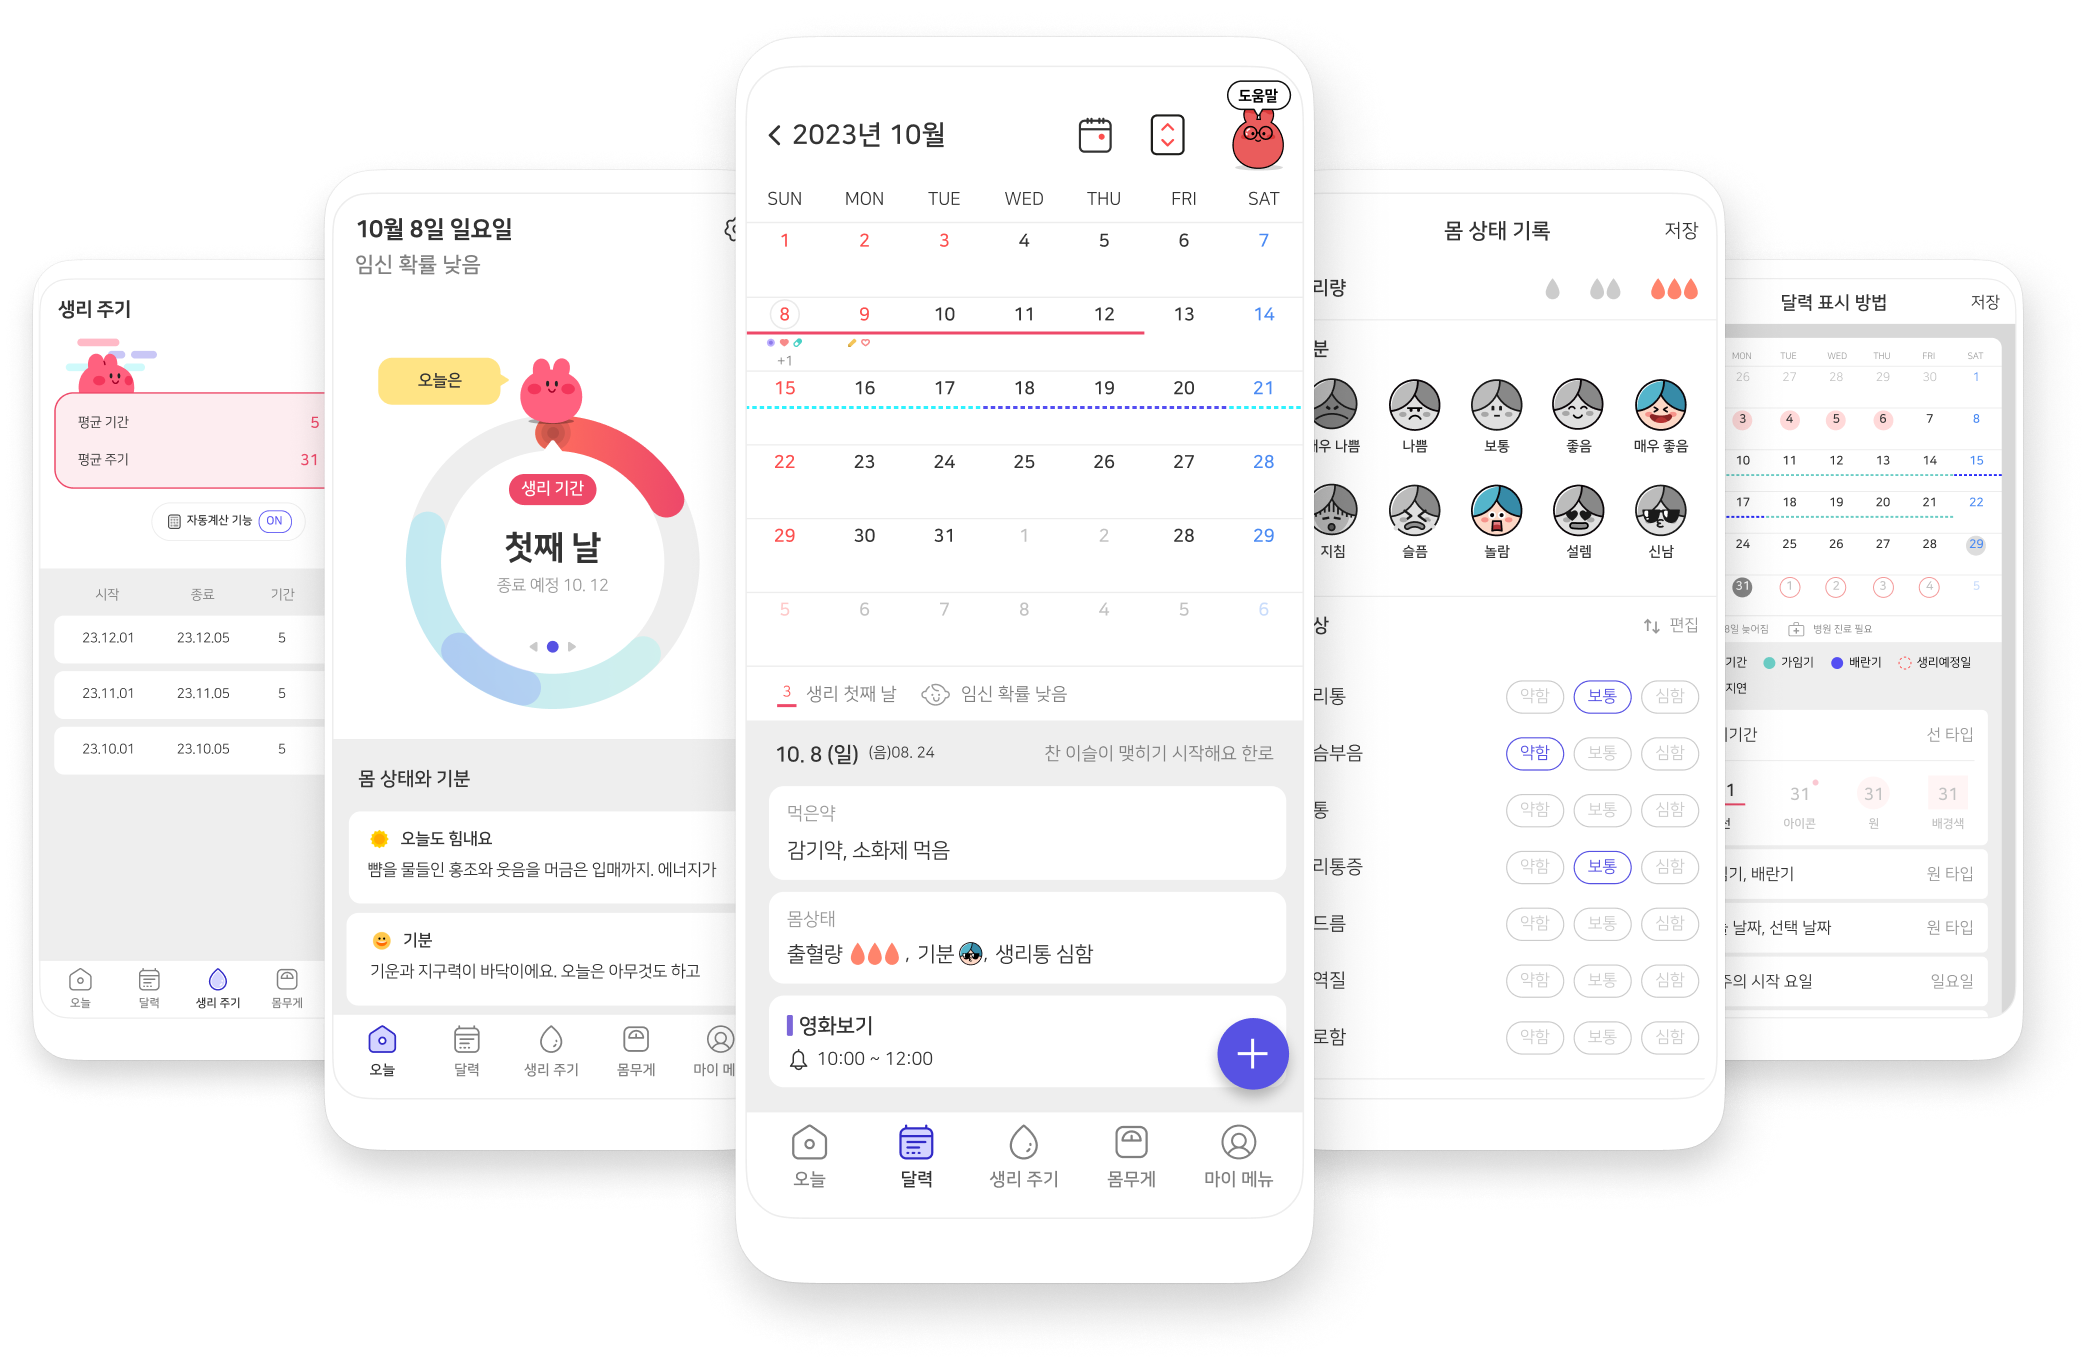
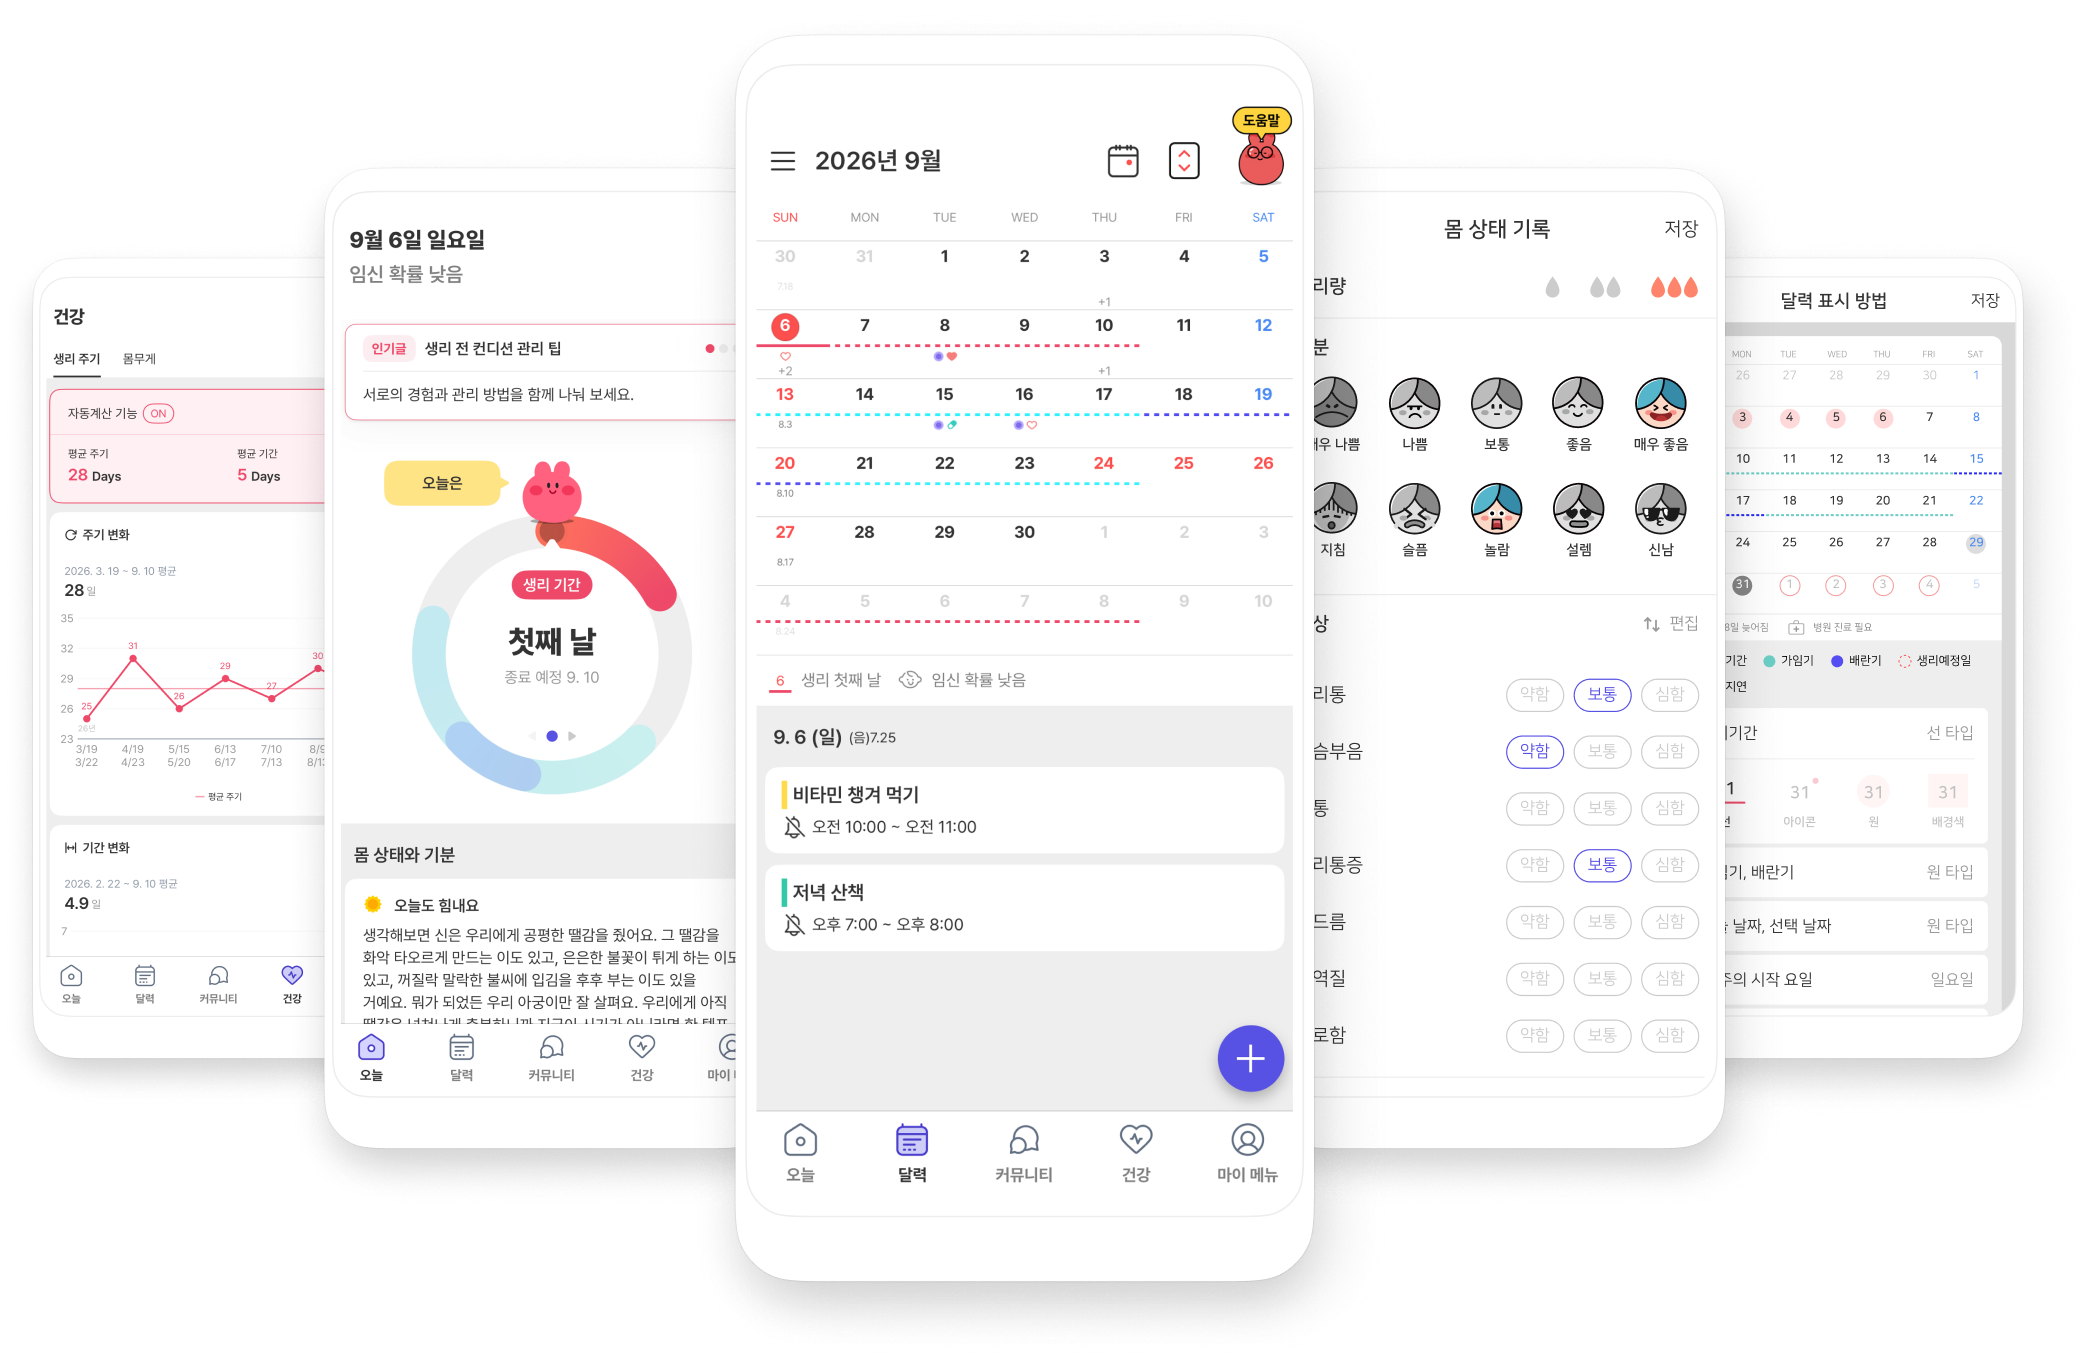
feat: refresh homepage app screenshots

diff --git a/index.html b/index.html
@@ -25,9 +25,9 @@
     <!-- magnific popup -->
     <link rel="stylesheet" href="assets/css/magnific-popup.css">
     <!-- stylesheet -->
-    <link rel="stylesheet" href="assets/css/style.css">
+    <link rel="stylesheet" href="assets/css/style.css?v=20260906-3">
     <!-- responsive -->
-    <link rel="stylesheet" href="assets/css/responsive.css">
+    <link rel="stylesheet" href="assets/css/responsive.css?v=20260906-3">
 
 </head>
 
@@ -108,7 +108,7 @@
 			  <div class="col-lg-12">
                 <div class="section-title">
                   <!-- section title -->
-                  <span><img src="assets/img/screen_phone.png" alt=""></span>
+                  <span><img src="assets/img/screen_phone.png?v=20260906-16" alt=""></span>
                 </div>
                 <!-- //. section title -->
               </div>	

diff --git a/assets/css/style.css b/assets/css/style.css
@@ -3457,8 +3457,9 @@ ul {
 	line-height: 36px;
 	margin-top: 8px;
 }
-.download-area{background-image: url(../img/download.png);
-	background-repeat: no-repeat; background-position: top center;background-position-y: 60px;}
+.download-area{background-image: url(../img/download.png?v=20260906-10);
+	background-repeat: no-repeat; background-position: top center; background-position-y: 60px;
+	background-size: 1140px 547px;}
 .footer-area .social-icon i{ color:#000;}
 .footer-area .social-icon {float:right; line-height: 29px;}
 .footer-area .social-icon li { float:left; margin-left: 8px;}

diff --git a/assets/css/responsive.css b/assets/css/responsive.css
@@ -231,7 +231,7 @@
 	margin-bottom: 34px;
 }
 .download-area {
-	background-image: url(../img/download.png);
+	background-image: url(../img/download.png?v=20260906-10);
 	background-repeat: no-repeat;
 	background-position: -19px 290px;
 	background-size: 122% auto;
@@ -463,7 +463,7 @@
 }
 .icon.icon_mau{width: 51px; height: auto;}	
 .download-area {
-	background-image: url( ../img/download_mobile_new.png);
+	background-image: url( ../img/download_mobile_new.png?v=20260906-5);
 	background-repeat: no-repeat;
 	background-position: bottom center;
 	background-size: 70% auto;
